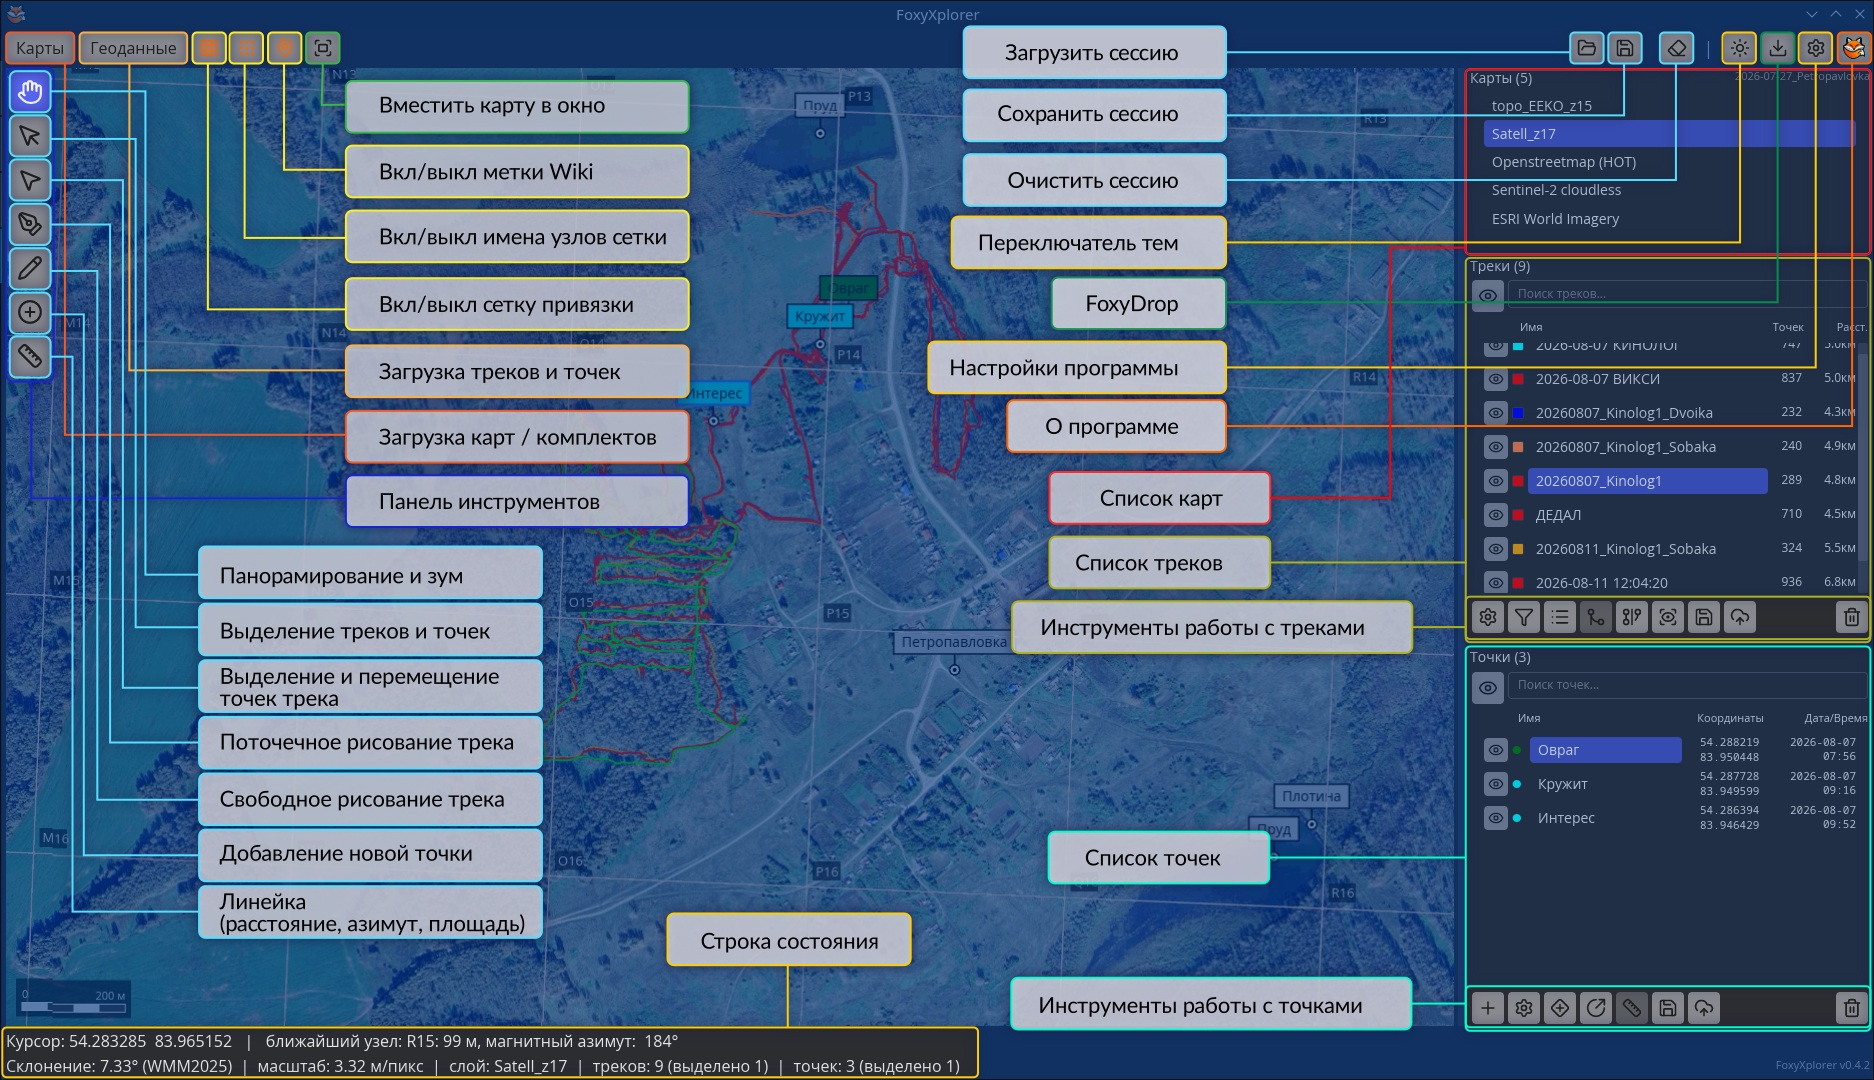
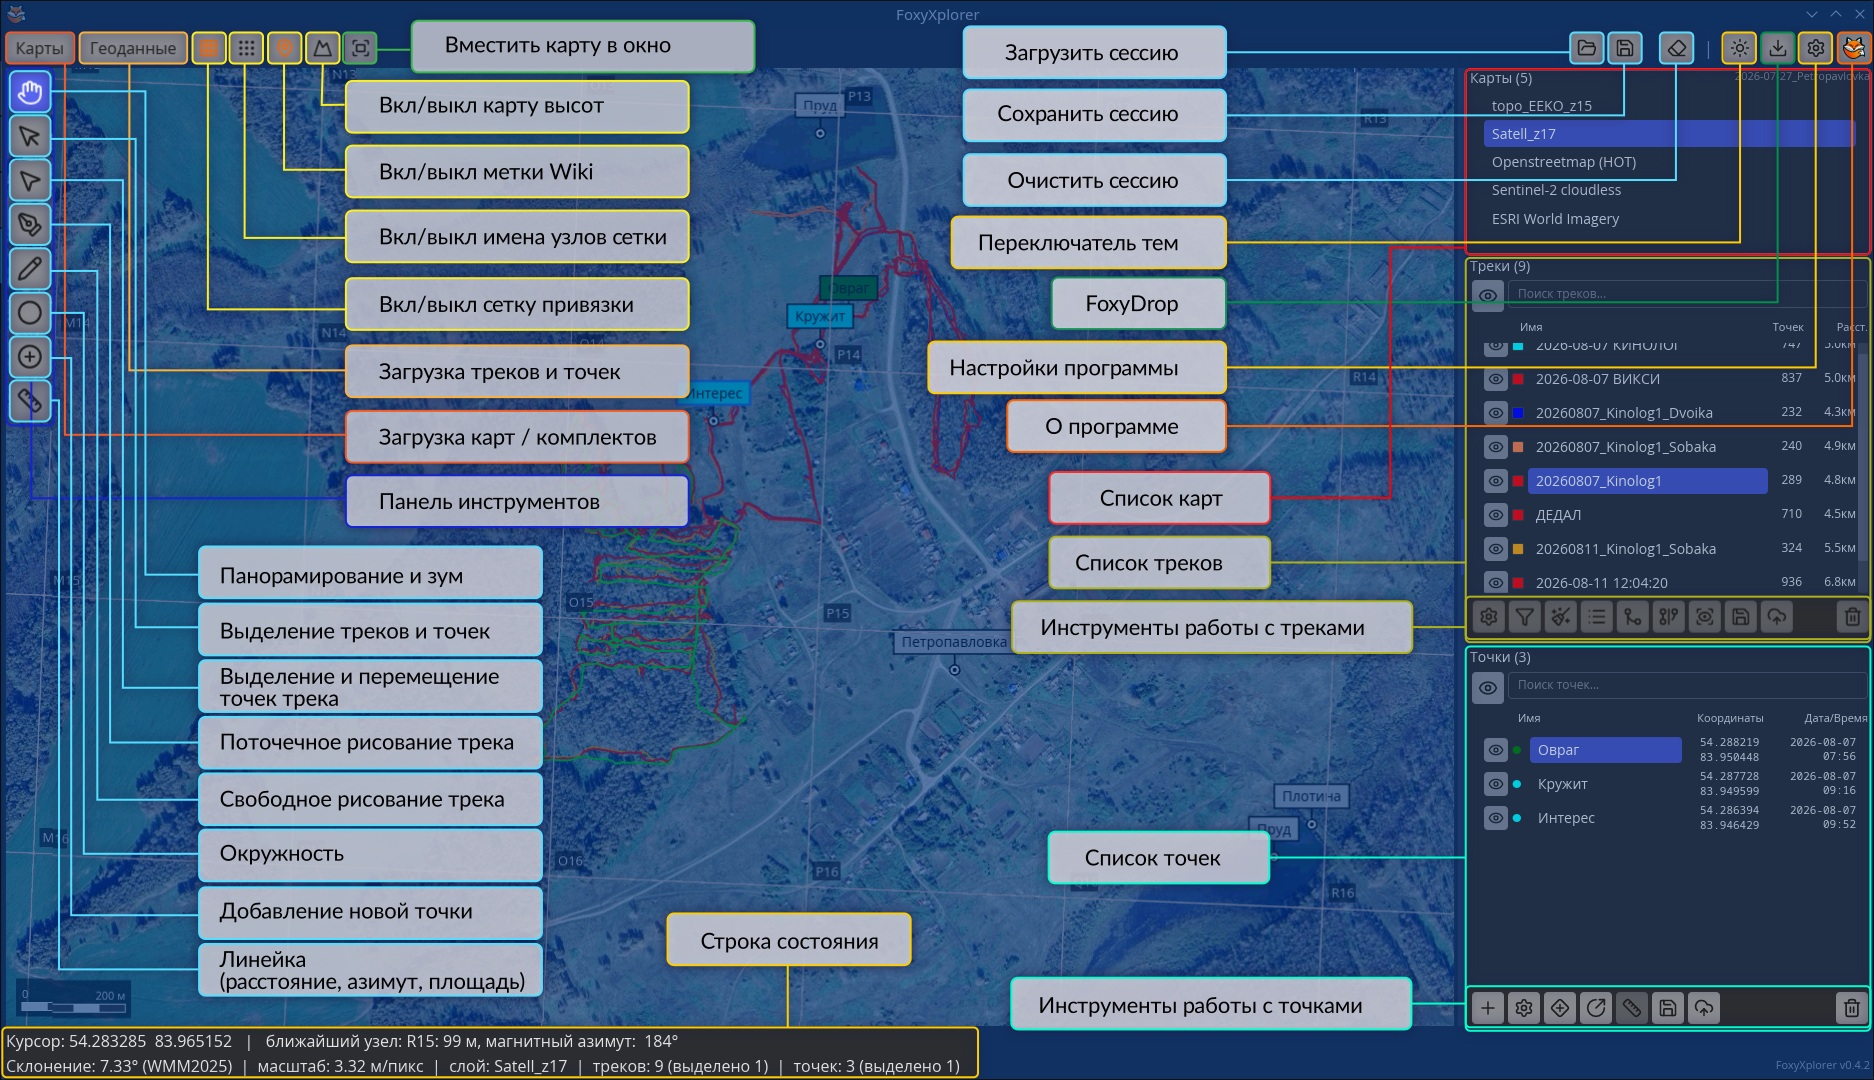
Docs

diff --git a/docs/user-guide.md b/docs/user-guide.md
@@ -20,6 +20,10 @@
 
 - Кнопка "Переключение видимости меток Wiki"  включает и выключает отображение данных Wikimapia (если есть в комплекте).
 
+- Кнопка "Переключение видимости карты высот" - включает и выключает онайлн-карту высот, нормализованную под область текущую область видимости.
+
+- Кнопка "Вместить карту в экран". Очевидно.
+
 - Кнопка "Загрузить сессию" позволяет загрузить сохраненную сессию из файла. Горячая клавиша - **Ctrl-O**.
 
 - Кнопка "Сохранить сессию" позволяет сохранить текущую сессию. Горячая клавиша - **Ctrl-S**.
@@ -50,6 +54,8 @@
 - Свободное рисование трека. Зажимаем ЛКМ и рисуем по карте. Горячая клавиша - **F**.
 
   Оба инструмента добавляют новый трек к выделенному на момент начало рисования (дорисовывают его), если первый клик / мув рисования выполнить с модификатором **Shift.**. Все точки модифицированных таким образом треков утрачивают всю информацию, кроме координат.
+
+- Окружность. Первый клик задает центр, движение мыши - радиус. Второй клик фиксирует окружность. Пока инструмент активен, радиус окружности можно менять. **Enter** создает трек типа "Полигон", **Escape** отменяет создание.
 
 - Добавление новой точки. Добавляет маршрутную точку в произвольном месте с вызовом модального окна "Свойства точки". Горячая клавиша **W**.
 
@@ -187,7 +193,7 @@ C:\Users\<user>\AppData\Local\foxy\esri\z\x\y.jpg`
 
 Выделение в списке синхронизировано с инструментом "Выбор точек трека (D)". Если выделить точку/точки этим инструментом на карте и открыть "Список точек трека", то список центрируется на первой по порядку точке из выделенных.
 
-- Кнопка "В центр" центрирует выбранную точку (или первую в списке из множества выбранных) на карте и отмечает ее знаком прицела
+- Кнопка "В центр" центрирует выбранную точку (или множество выбранных) на карте и отмечает ее знаком прицела
 
 - Кнопка "Разделить" режет трек на сегменты по выбранной точке (или первой в списке из множества выбранных).  Важно: разделение происходит в рамках существующего трека, новый трек не создается.
 
@@ -195,7 +201,9 @@ C:\Users\<user>\AppData\Local\foxy\esri\z\x\y.jpg`
 
 - Кнопка "Вне сетки" выделяет все точки трека за пределами сетки привязки.
 
-- Кнопка "Удалить" удаляет все выбранные точки.
+- Кнопка "Удалить" удаляет все выбранные точки, соединяя их уцелевших соседей отрезком.
+
+- Кнопка "Удалить с разрывом" удаляет выбранные точки, создавая разрыв и сегментируя трек.
 
 Большая часть операций дублируется в контекстном меню **ПКМ** над треком, однако в нем присутствует и одна дополнительная - "Разделить здесь". Трек режется в точке клика на два новых, новый трек добавляется в список с суффиксом  _Сегмент2.
 
